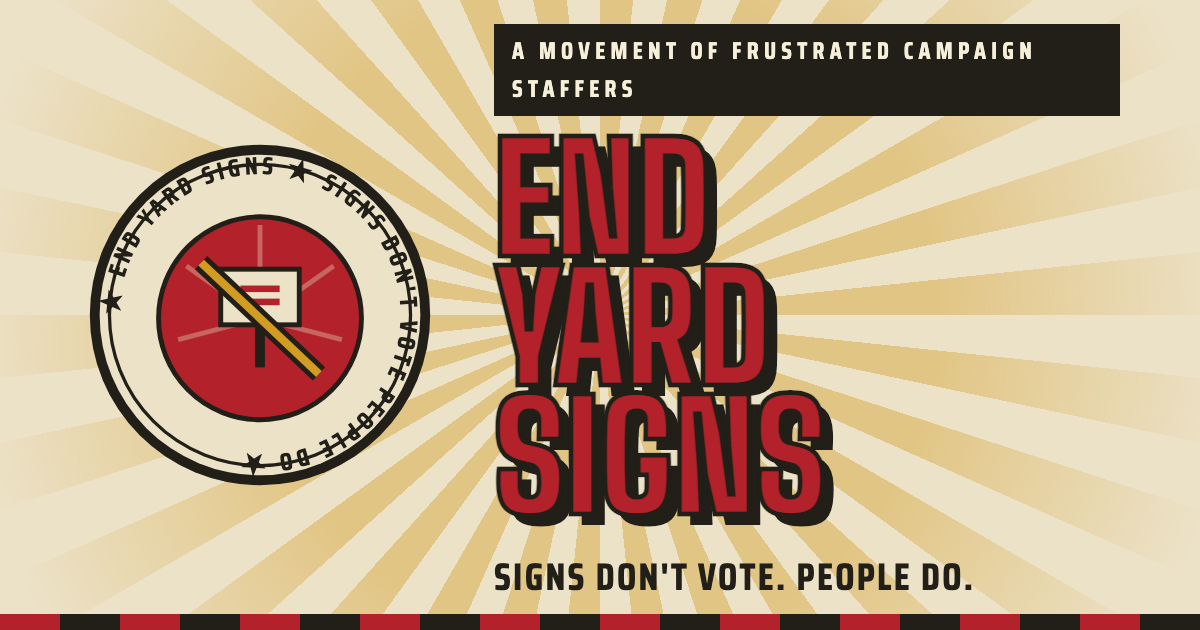
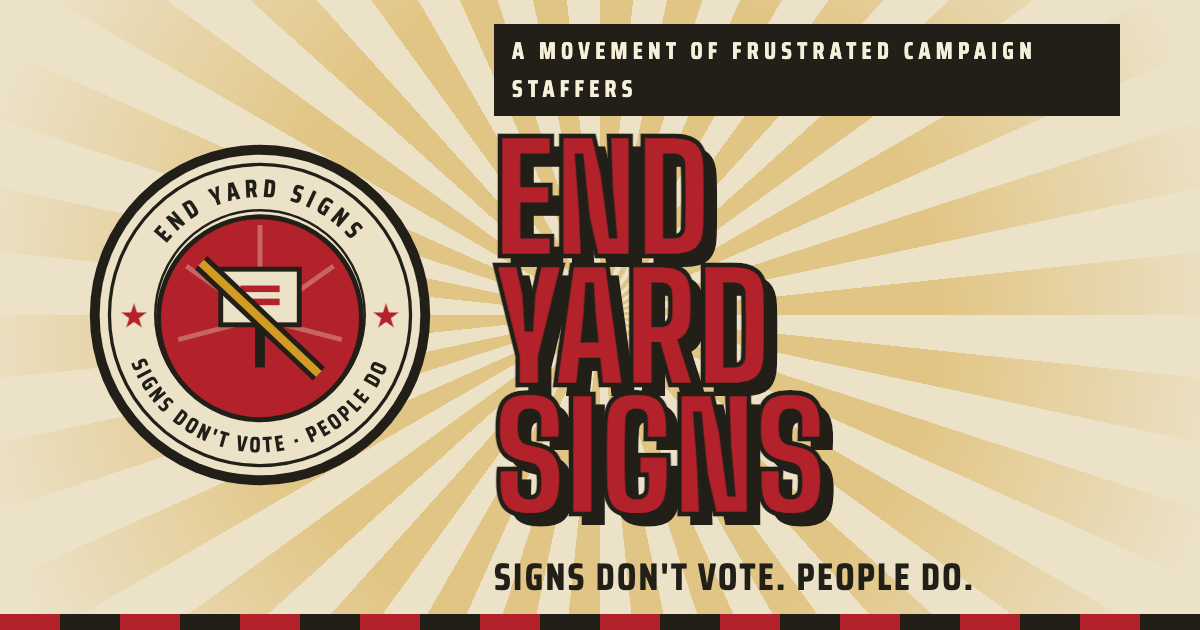
Fix seal typography: split ring text into two upright arcs
Replace the single full-circle textPath (which ran the bottom half
sideways/upside-down) with separate top and bottom semicircle arcs,
both upright and centered, plus red star accents at the sides and an
inner framing ring. Applied to the hero seal and the OG card; og-image
regenerated.

diff --git a/og.html b/og.html
@@ -25,13 +25,22 @@
 <body>
   <div class="rays"></div>
   <svg class="seal" width="360" height="360" viewBox="0 0 220 220">
-    <defs><path id="ring" d="M110,110 m-86,0 a86,86 0 1,1 172,0 a86,86 0 1,1 -172,0" /></defs>
+    <defs>
+      <path id="ringTop" d="M 38,110 A 72,72 0 0 1 182,110" />
+      <path id="ringBot" d="M 26,110 A 84,84 0 0 0 194,110" />
+    </defs>
     <circle cx="110" cy="110" r="104" fill="#211f18"/>
     <circle cx="110" cy="110" r="98" fill="#ece2c8"/>
     <circle cx="110" cy="110" r="92" fill="none" stroke="#211f18" stroke-width="2"/>
-    <text font-family="Saira Condensed, sans-serif" font-weight="700" font-size="15" letter-spacing="2.5" fill="#211f18">
-      <textPath href="#ring" startOffset="0">★ END YARD SIGNS ★ SIGNS DON'T VOTE PEOPLE DO ★</textPath>
+    <circle cx="110" cy="110" r="64" fill="none" stroke="#211f18" stroke-width="1.5"/>
+    <text font-family="Saira Condensed, sans-serif" font-weight="700" font-size="15.5" letter-spacing="3" fill="#211f18" text-anchor="middle">
+      <textPath href="#ringTop" startOffset="50%">END YARD SIGNS</textPath>
     </text>
+    <text font-family="Saira Condensed, sans-serif" font-weight="700" font-size="13.5" letter-spacing="2" fill="#211f18" text-anchor="middle">
+      <textPath href="#ringBot" startOffset="50%">SIGNS DON'T VOTE &middot; PEOPLE DO</textPath>
+    </text>
+    <text x="33" y="110" font-size="15" fill="#b3222a" text-anchor="middle" dominant-baseline="central">&#9733;</text>
+    <text x="187" y="110" font-size="15" fill="#b3222a" text-anchor="middle" dominant-baseline="central">&#9733;</text>
     <circle cx="110" cy="112" r="62" fill="#b3222a" stroke="#211f18" stroke-width="3"/>
     <g opacity=".35">
       <line x1="110" y1="112" x2="110" y2="55" stroke="#ece2c8" stroke-width="3"/>

diff --git a/index.html b/index.html
@@ -366,14 +366,21 @@
 
     <svg class="seal rise" style="animation-delay:.15s" viewBox="0 0 220 220" role="img" aria-label="A movement seal: a yard sign crossed out">
       <defs>
-        <path id="ring" d="M110,110 m-86,0 a86,86 0 1,1 172,0 a86,86 0 1,1 -172,0" />
+        <path id="ringTop" d="M 38,110 A 72,72 0 0 1 182,110" />
+        <path id="ringBot" d="M 26,110 A 84,84 0 0 0 194,110" />
       </defs>
       <circle cx="110" cy="110" r="104" fill="#211f18"/>
       <circle cx="110" cy="110" r="98" fill="#ece2c8"/>
       <circle cx="110" cy="110" r="92" fill="none" stroke="#211f18" stroke-width="2"/>
-      <text font-family="Saira Condensed, sans-serif" font-weight="700" font-size="15" letter-spacing="2.5" fill="#211f18">
-        <textPath href="#ring" startOffset="0">★ END YARD SIGNS ★ SIGNS DON&#39;T VOTE PEOPLE DO ★</textPath>
+      <circle cx="110" cy="110" r="64" fill="none" stroke="#211f18" stroke-width="1.5"/>
+      <text font-family="Saira Condensed, sans-serif" font-weight="700" font-size="15.5" letter-spacing="3" fill="#211f18" text-anchor="middle">
+        <textPath href="#ringTop" startOffset="50%">END YARD SIGNS</textPath>
       </text>
+      <text font-family="Saira Condensed, sans-serif" font-weight="700" font-size="13.5" letter-spacing="2" fill="#211f18" text-anchor="middle">
+        <textPath href="#ringBot" startOffset="50%">SIGNS DON&#39;T VOTE &middot; PEOPLE DO</textPath>
+      </text>
+      <text x="33" y="110" font-size="15" fill="#b3222a" text-anchor="middle" dominant-baseline="central">&#9733;</text>
+      <text x="187" y="110" font-size="15" fill="#b3222a" text-anchor="middle" dominant-baseline="central">&#9733;</text>
       <circle cx="110" cy="112" r="62" fill="#b3222a" stroke="#211f18" stroke-width="3"/>
       <g opacity=".35">
         <line x1="110" y1="112" x2="110" y2="55" stroke="#ece2c8" stroke-width="3"/>